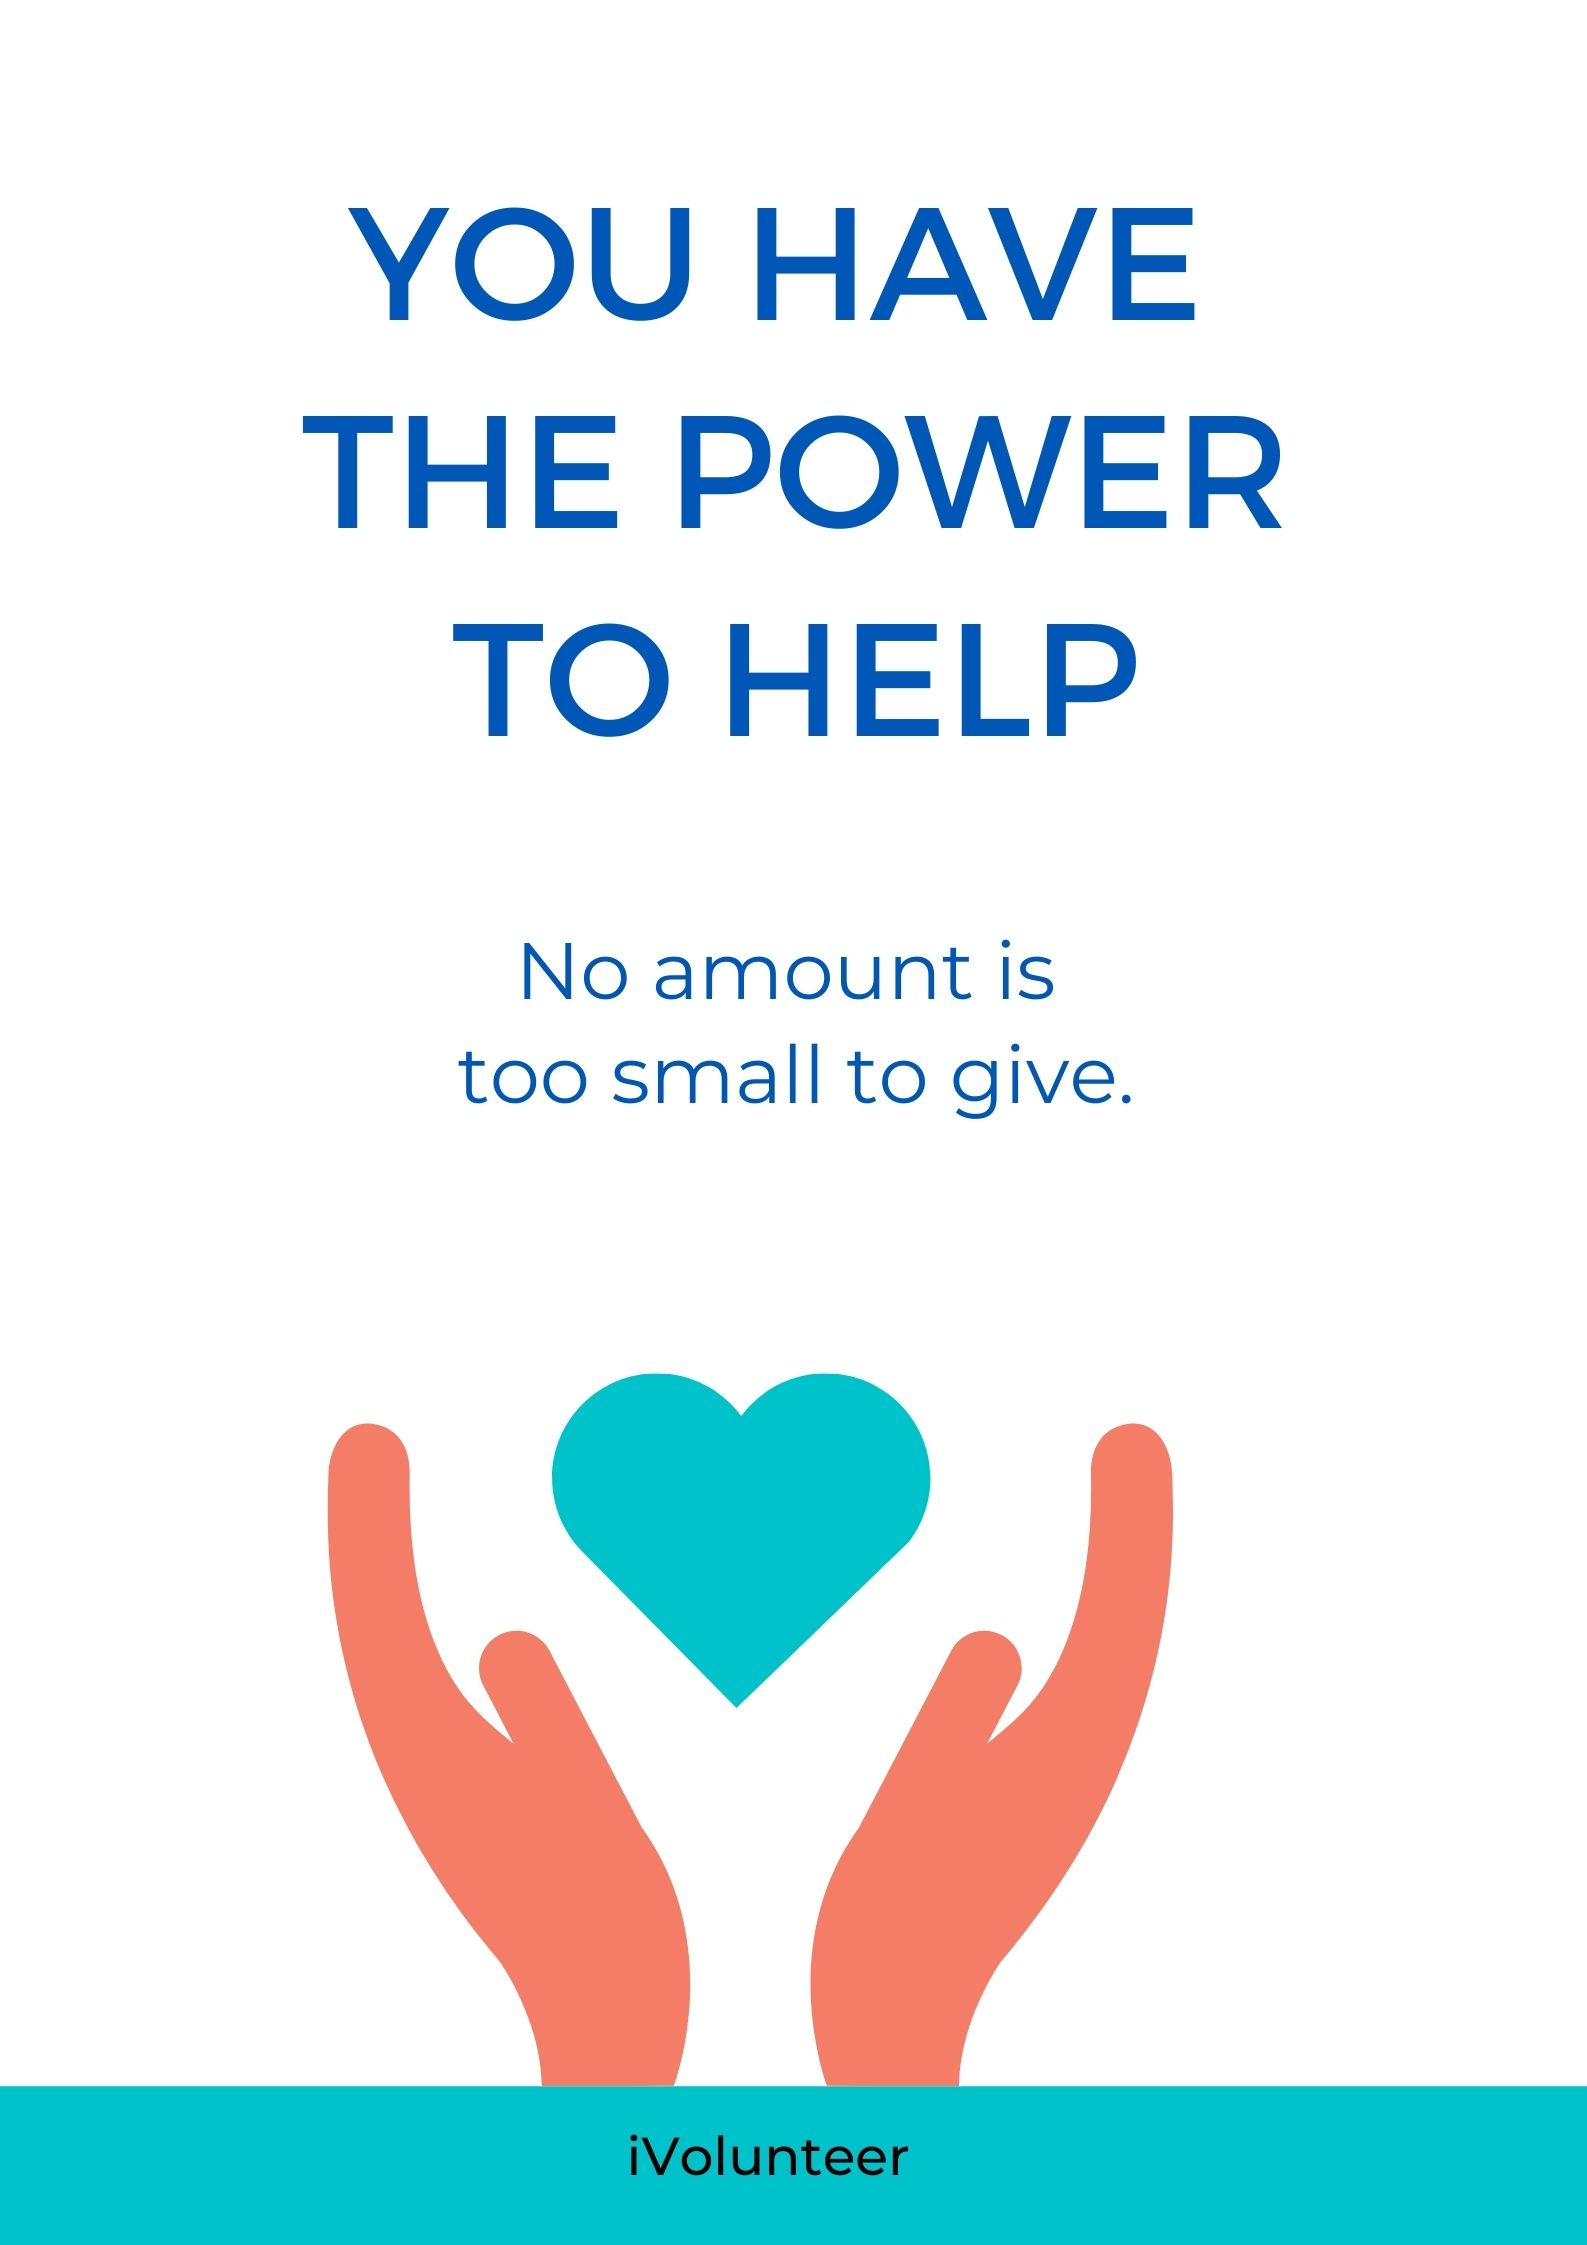
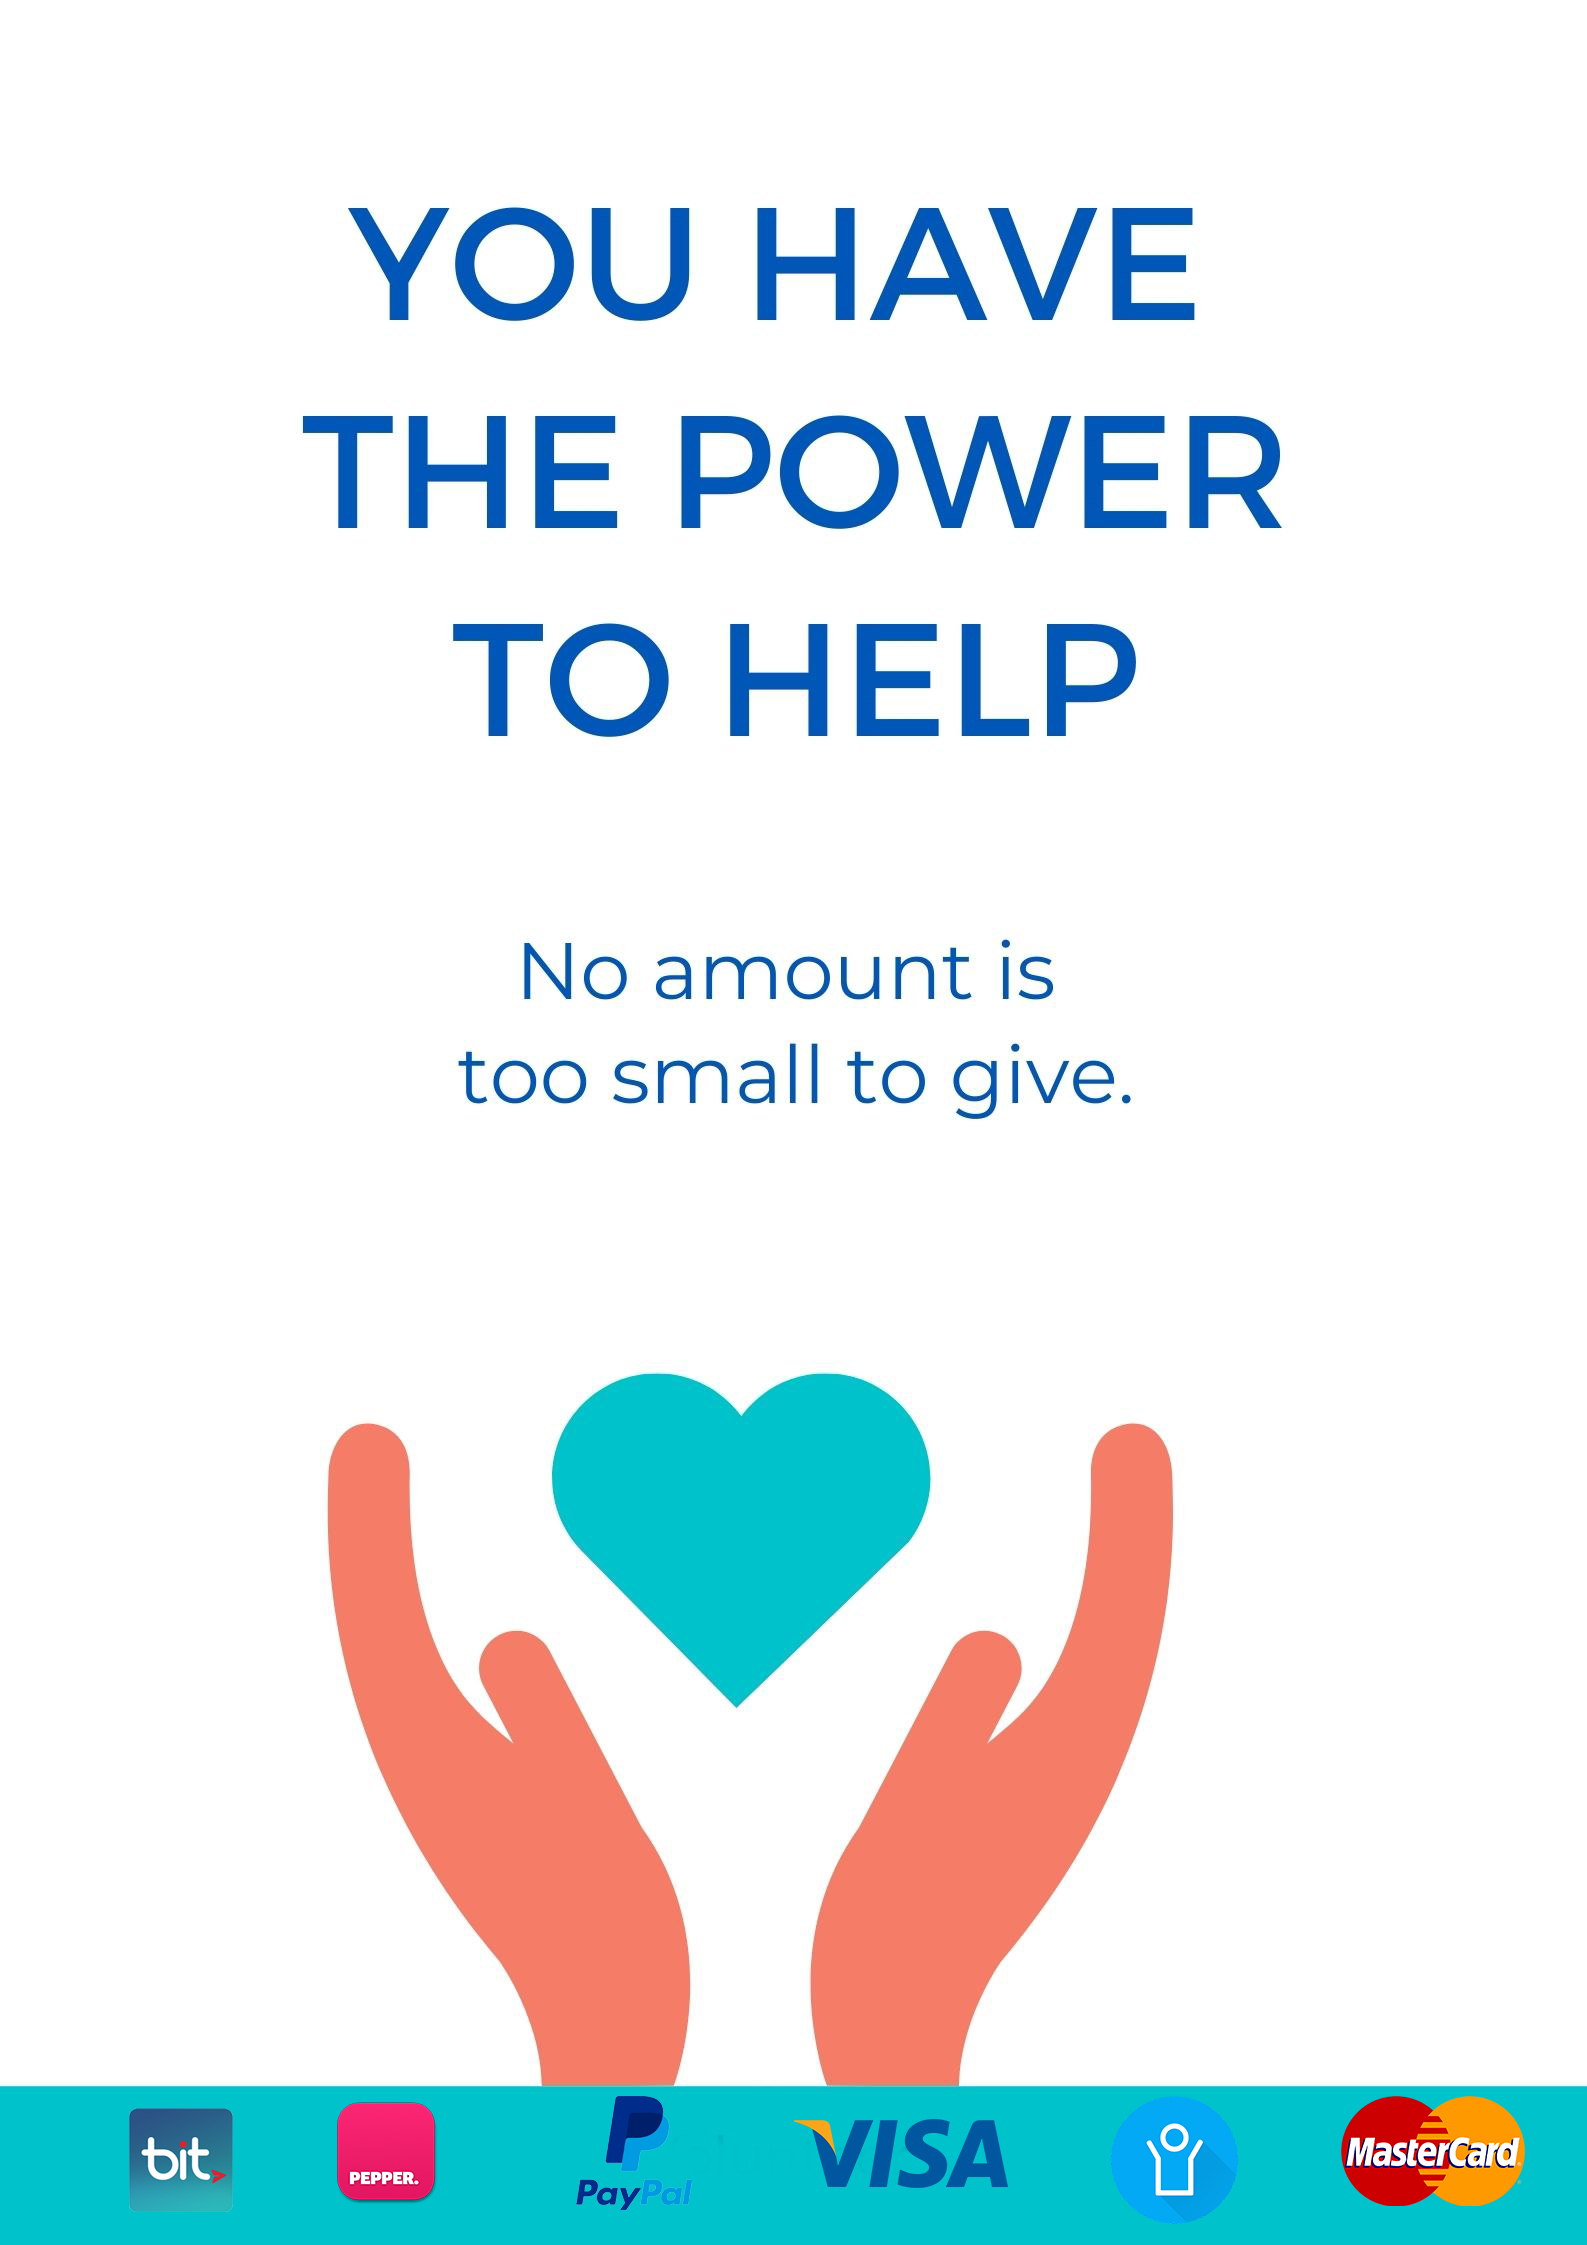
change photo popup

diff --git a/client/src/Components/parts/Popup/Time-Popup.jsx b/client/src/Components/parts/Popup/Time-Popup.jsx
@@ -2,18 +2,15 @@ import React from 'react';
 import "./Popup-Style.css";
 import Button from '@mui/material/Button';
 import CloseIcon from '@mui/icons-material/Close';
-import { useNavigate } from "react-router-dom";
 
 function TimerPopup(props) {
-
-    const navigate = useNavigate();
 
     return (props.trigger) ? (
         <div className='Popup'>
             <div className="PopupTimer-inner">
                  <CloseIcon className='TimerClose-btn' onClick={() => props.setTrigger(false)}/> 
                  <img src="Media/Donate.jpg" alt="" className="PopupTimer-inner"/>
-                 <Button variant="contained" size="large" onClick={()=> navigate('/donates')}> Click To Donate </Button>
+                 <a href='https://form.jotform.com/220872919622461' target="_blank"><Button variant="contained" size="large" > Click To Donate </Button></a>
             </div>
            
         </div>

diff --git a/client/src/Components/pages/NeedVol-Posts-Compo/PostCard-component.jsx b/client/src/Components/pages/NeedVol-Posts-Compo/PostCard-component.jsx
@@ -16,7 +16,7 @@ import LocalPhoneIcon from '@mui/icons-material/LocalPhone';
 const PostCard = ({ item }) => {
     const [btnPopup, setBtnPopup] = useState(false)
     return (<section className='card'>
-        <Card sx={{ maxWidth: 450 }}>
+        <Card sx={{ maxWidth: 350 }}>
             <CardMedia
                 component="img"
                 alt="Pic of need vol"
@@ -28,7 +28,7 @@ const PostCard = ({ item }) => {
                     {item.FirstName} {item.LastName}
                 </Typography>
                 <Typography variant="body2" color="text.secondary">
-                    {item.Description}
+                    {item.Description} <br />
                     <Button size="small" onClick={() => setBtnPopup(true)}>See More Details</Button>
                 </Typography>
             </CardContent>

diff --git a/client/src/Components/pages/Vol-Posts-Compo/VolPost-style.css b/client/src/Components/pages/Vol-Posts-Compo/VolPost-style.css
@@ -14,7 +14,7 @@ margin: 100px;
 }
 .volPost-title{
     width: 100%;
-    height: 20vh;
+    height: 5vh;
 }
 .spaceDiv{
     width: 100%;
